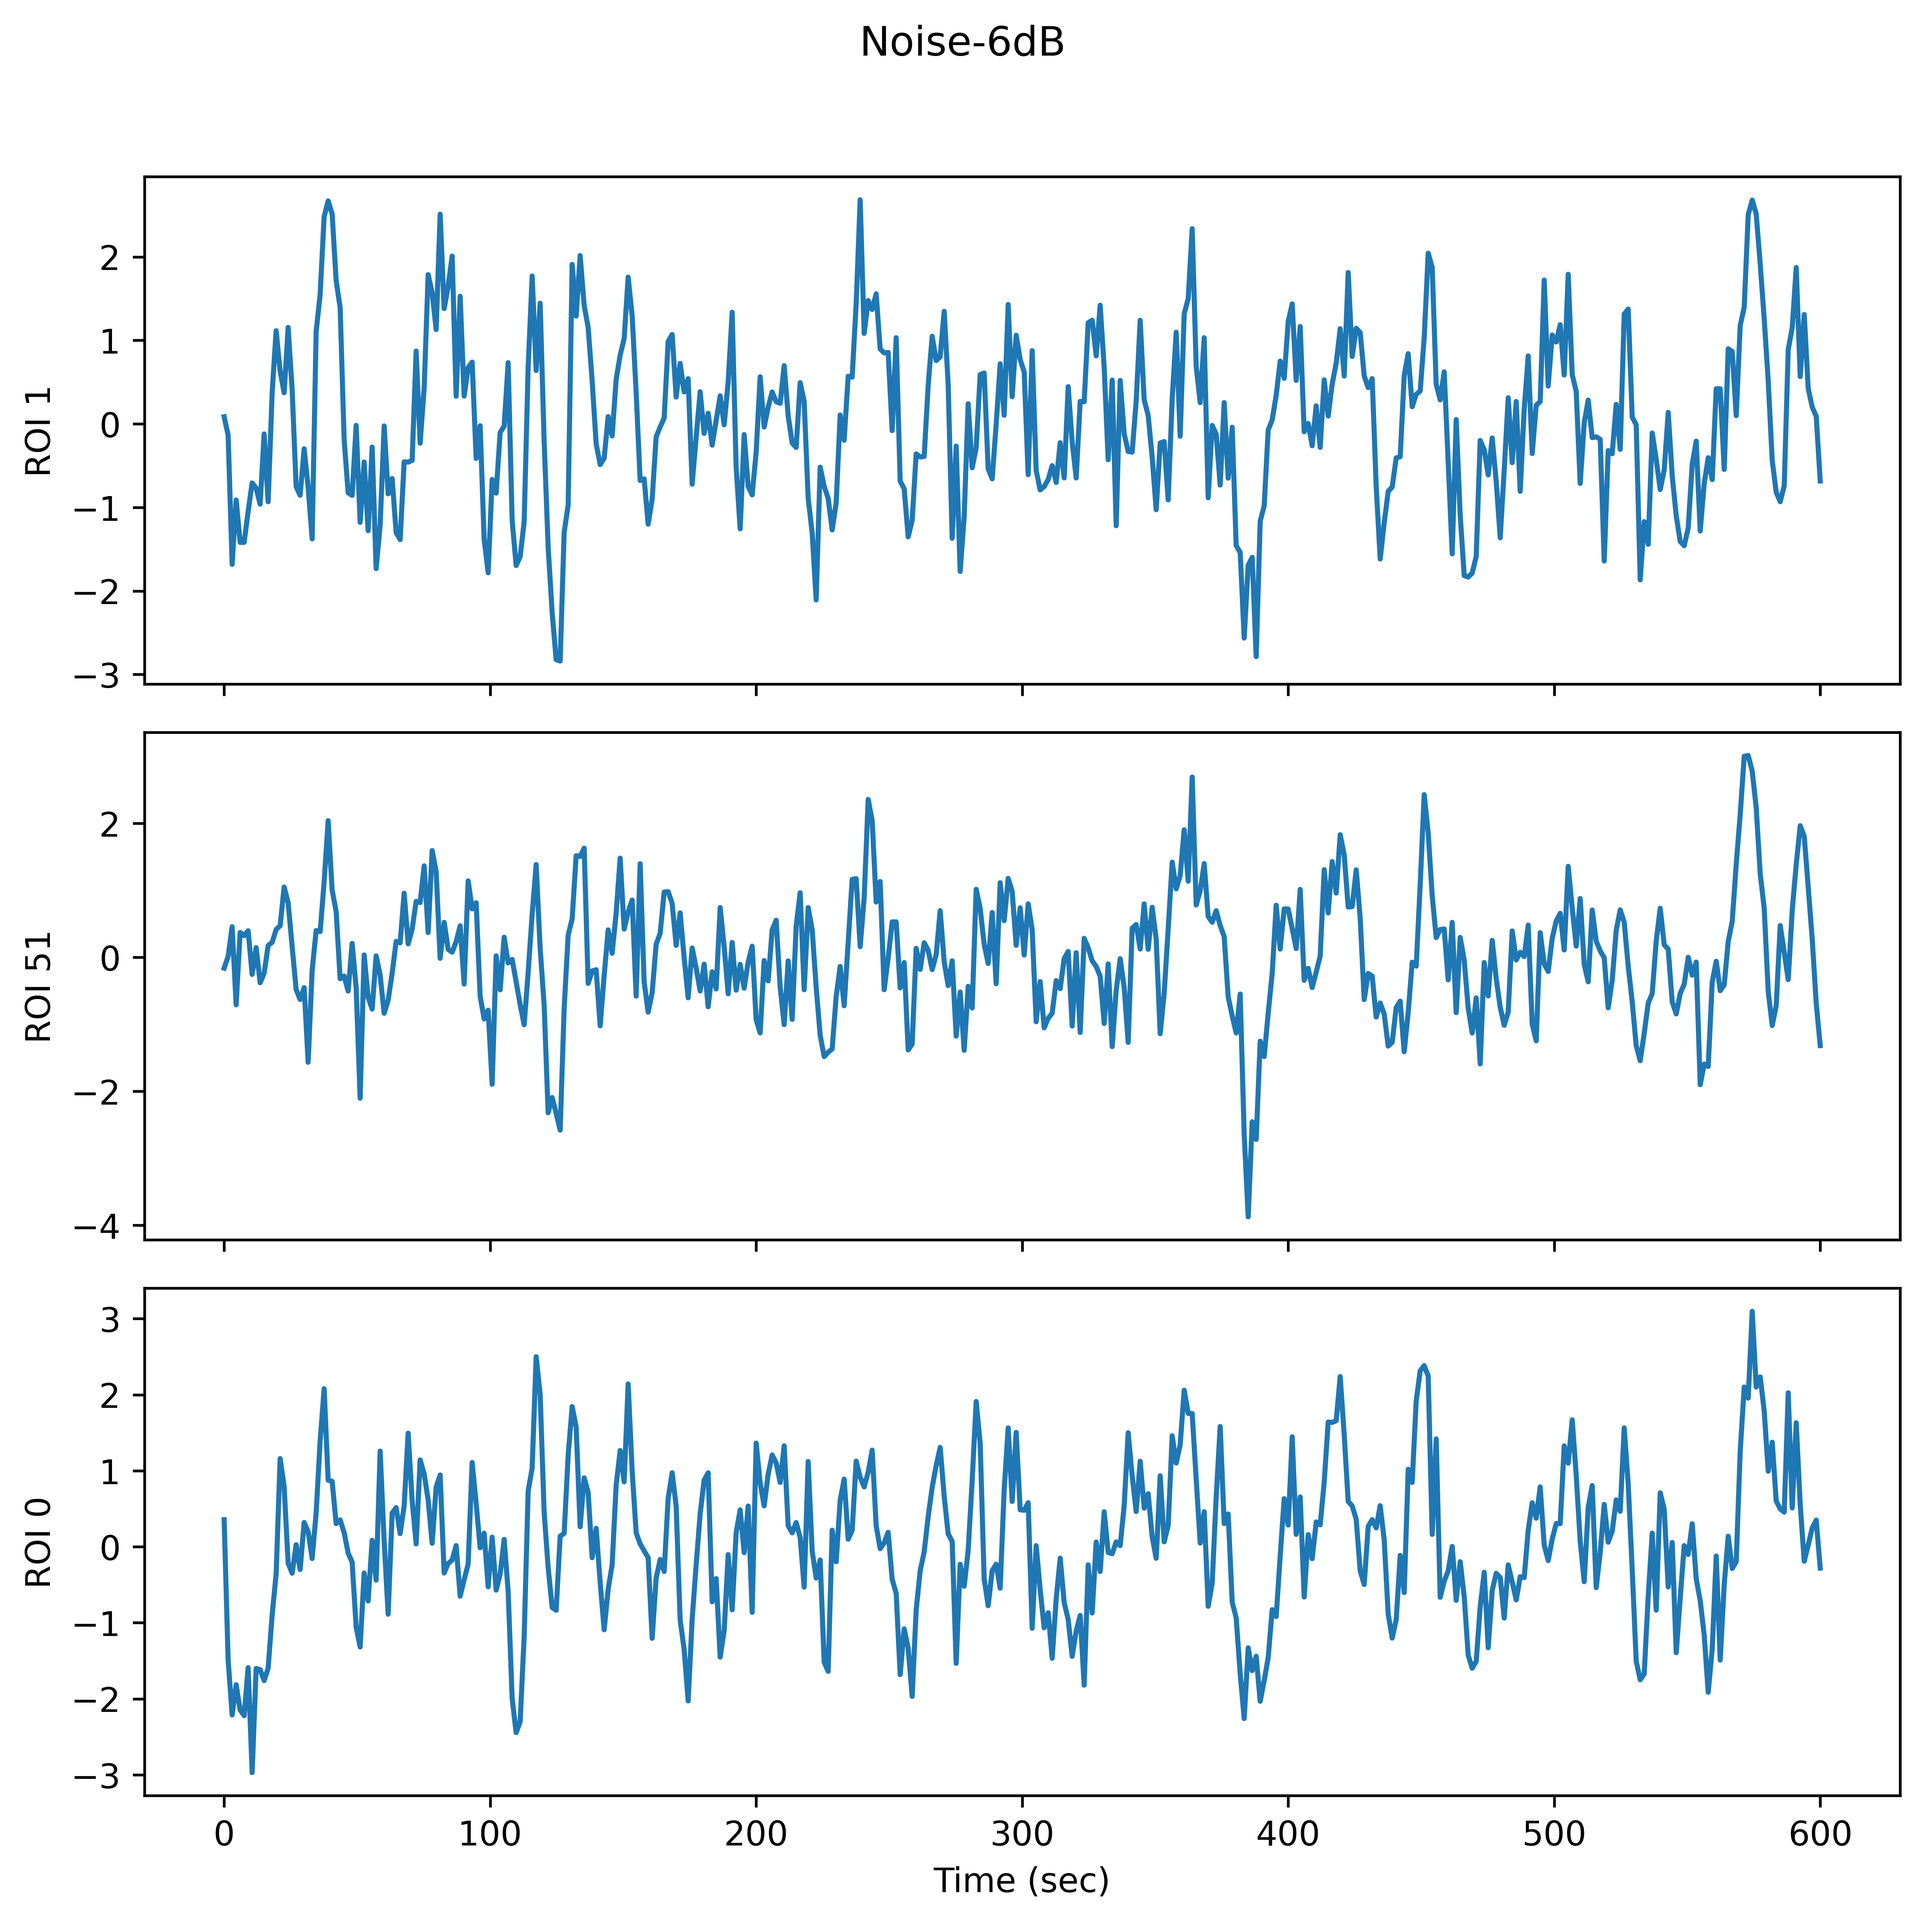
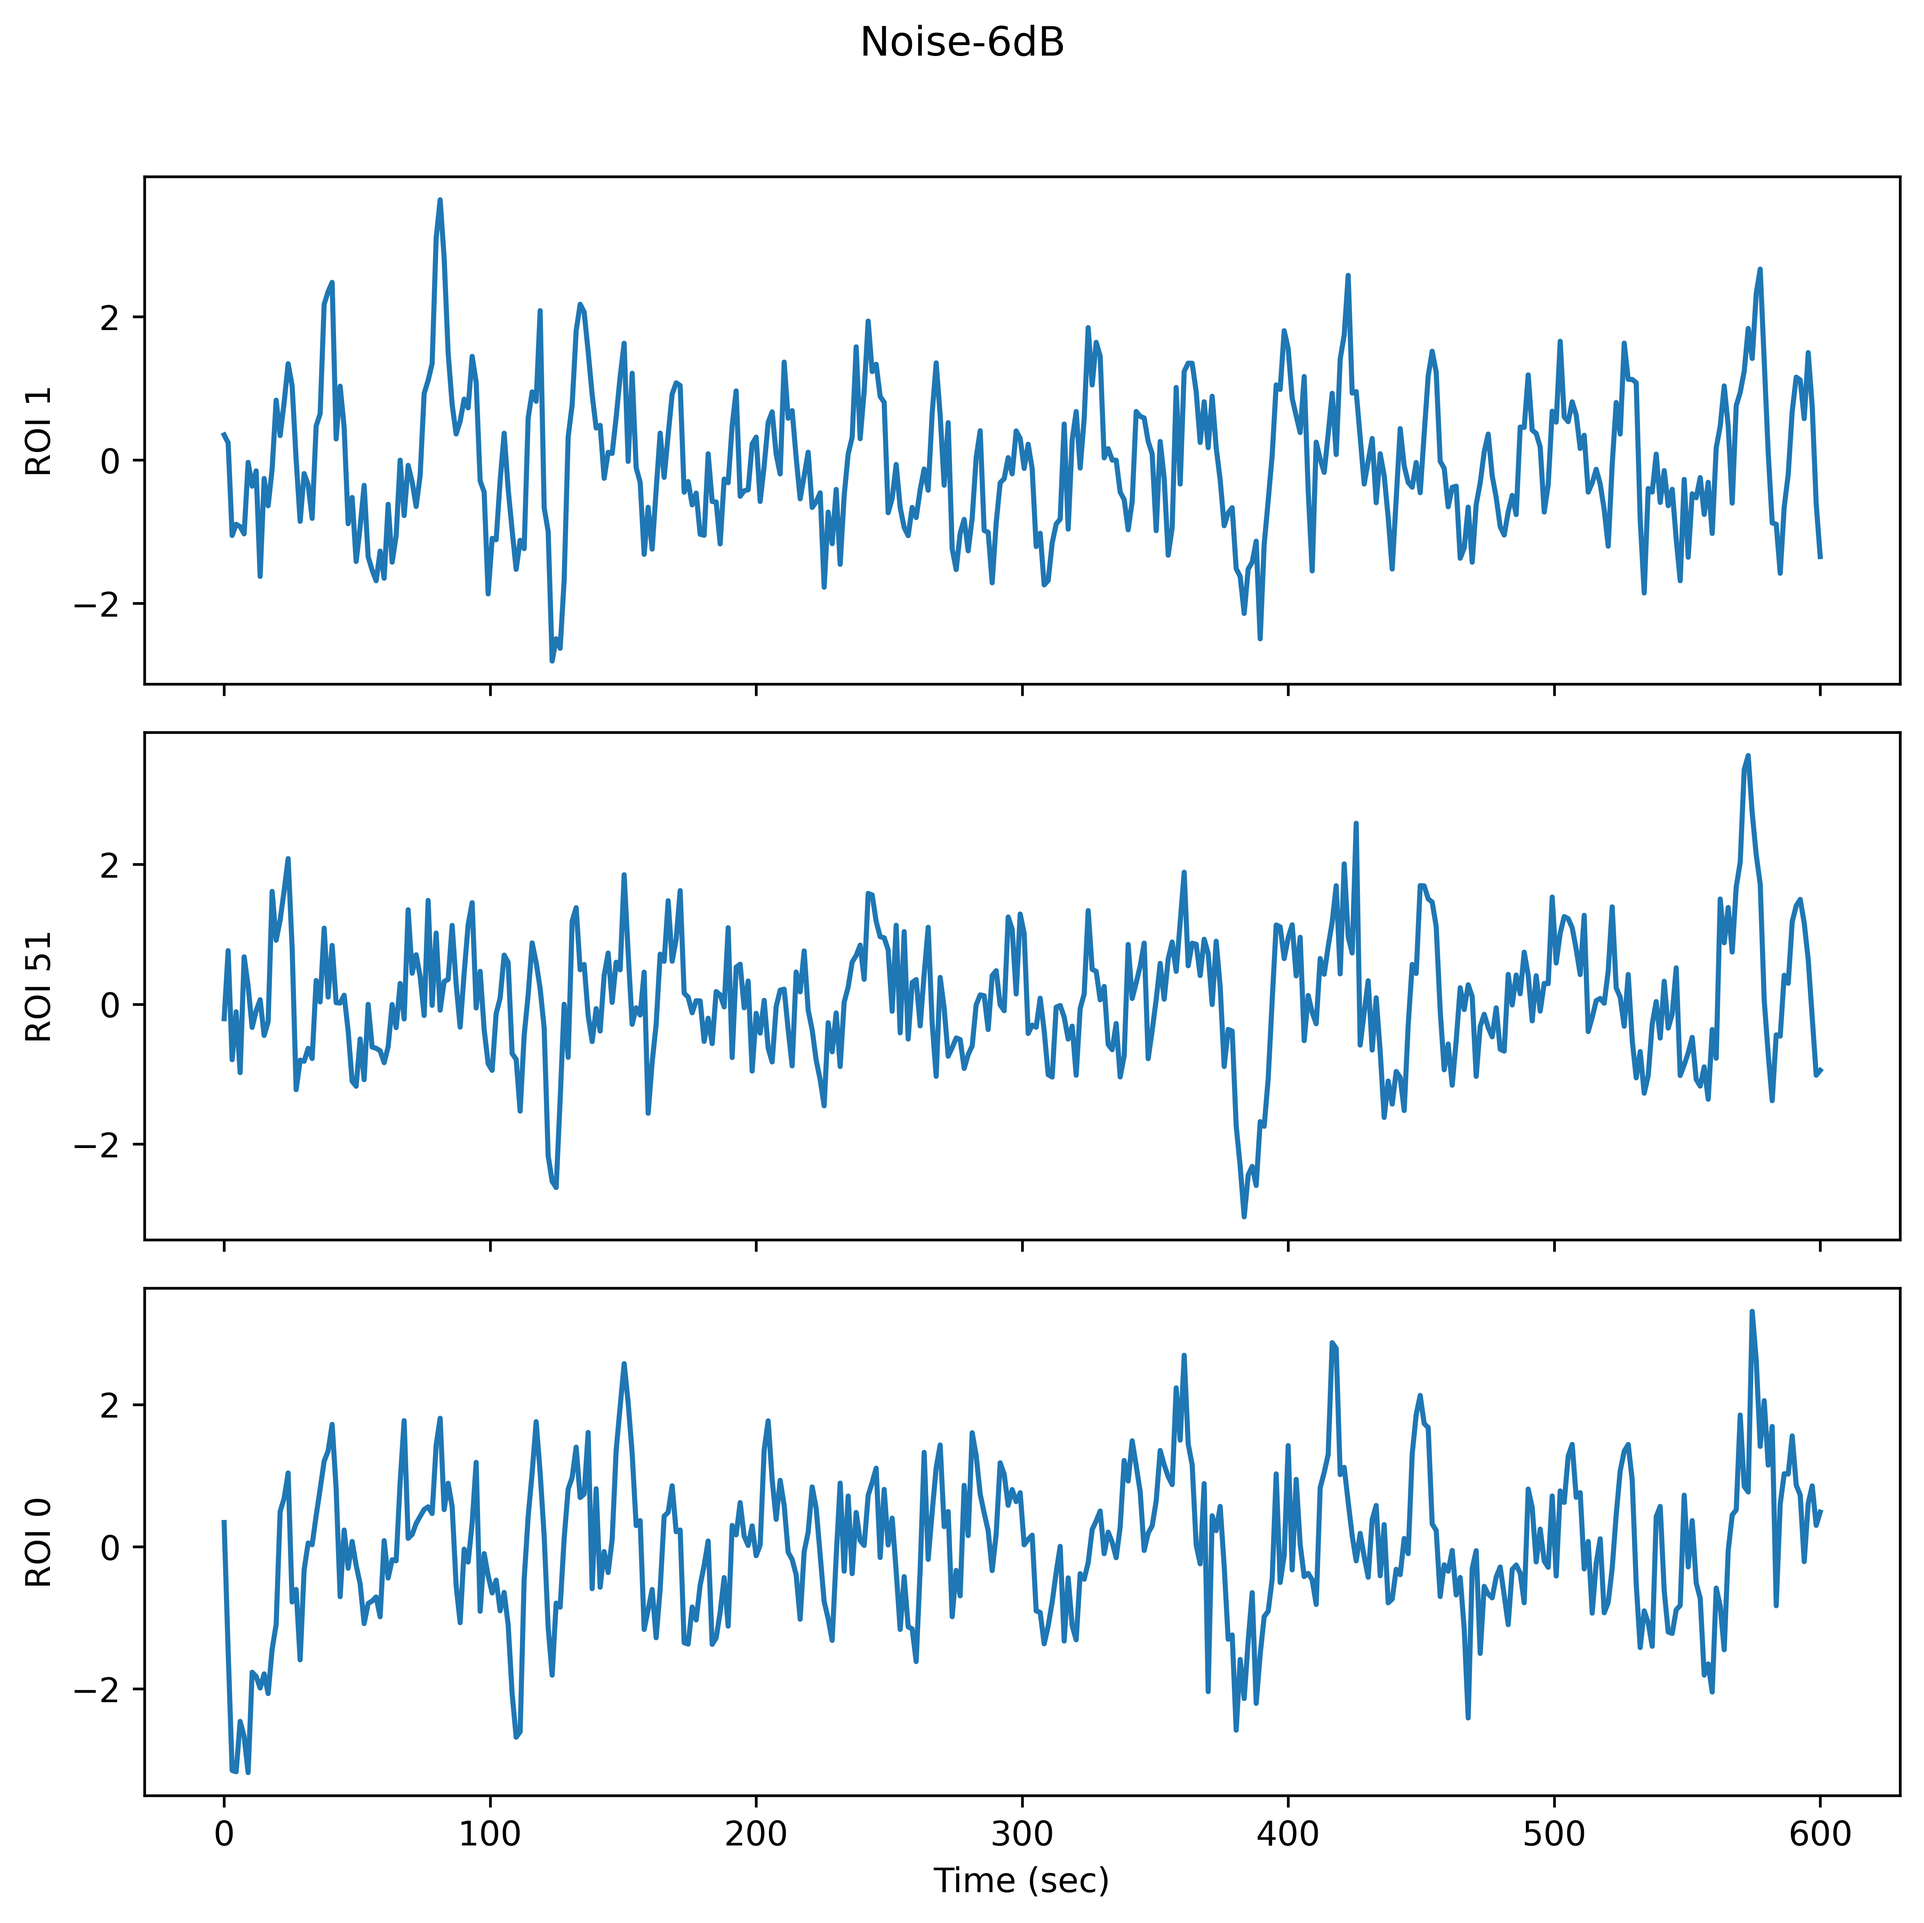
Update

diff --git a/plot_time_series_and_PSDs.py b/plot_time_series_and_PSDs.py
@@ -87,13 +87,13 @@ def main(config):
     plot_three_subplots_psd(data_timegan, 'TimeGAN', 'psd_timegan.png')
     
     plot_three_subplots(x, data_crvae, 'CRVAE', 'time_series_CRVAE.png')
-    plot_three_subplots(x, data_crvae, 'CRVAE', 'psd_CRVAE.png')
+    plot_three_subplots_psd(data_crvae, 'CRVAE', 'psd_CRVAE.png')
     
     plot_three_subplots(x, data_diffusion_ts, 'Diffusion-TS', 'time_series_Diffusion-TS.png')
-    plot_three_subplots(x, data_diffusion_ts, 'Diffusion-TS', 'psd_Diffusion-TS.png')
+    plot_three_subplots_psd(data_diffusion_ts, 'Diffusion-TS', 'psd_Diffusion-TS.png')
     
     plot_three_subplots(x, data_rdcm, 'rDCM-GEN', 'time_series_rDCM-GEN.png')
-    plot_three_subplots(x, data_rdcm, 'rDCM-GEN', 'psd_rDCM-GEN.png')
+    plot_three_subplots_psd(data_rdcm, 'rDCM-GEN', 'psd_rDCM-GEN.png')
 
 
 if __name__ == "__main__":
